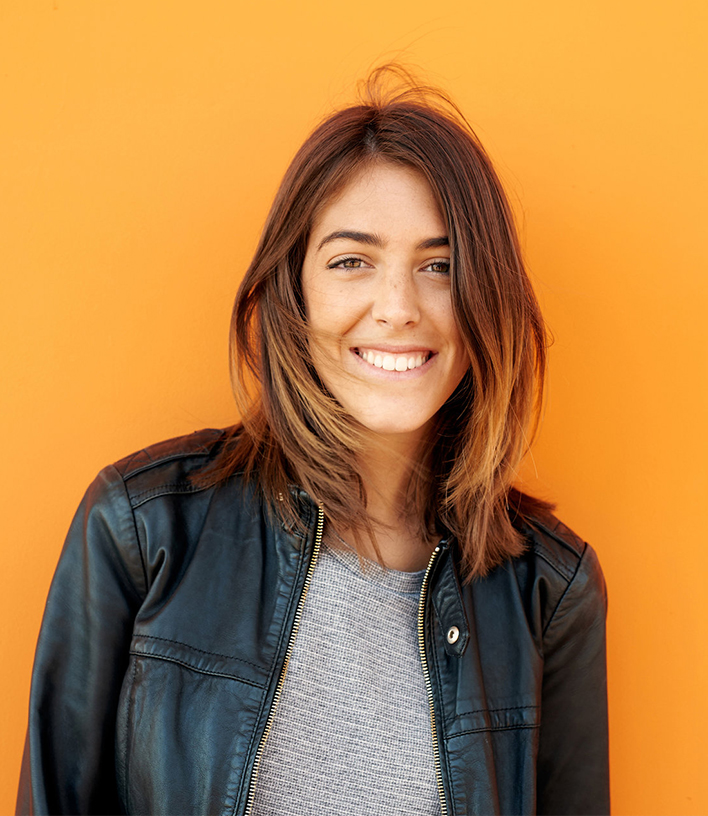
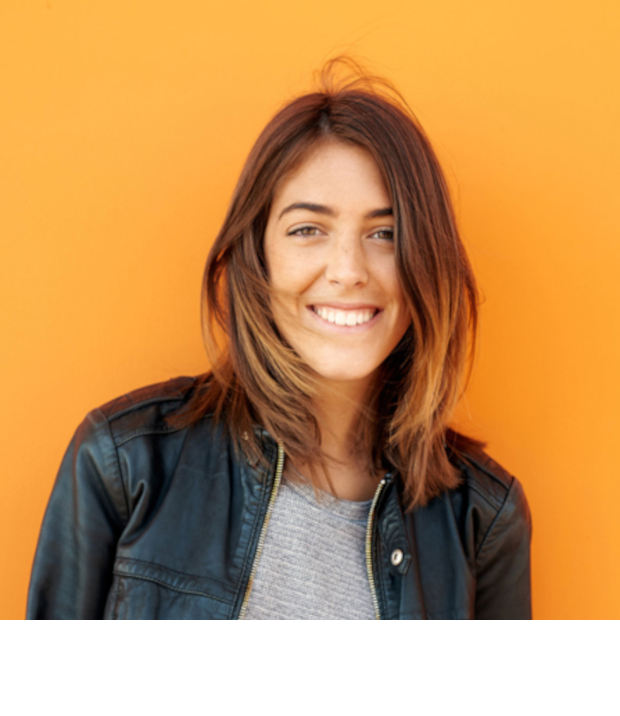
projeto finalizado ainda não responsivo

diff --git a/DEGRAW_PROJECT/css/style.css b/DEGRAW_PROJECT/css/style.css
@@ -8,6 +8,7 @@
 
 body{
     overflow-x: hidden;
+    max-width: 1900px;
 }
 
 .header-container{
@@ -92,18 +93,21 @@ body{
 
 .phrase{
     background-color: #fff;
+    height: 350px;
 }
 
-.phrase-p{
-    line-height: 50px;
+.phrase p{
     width: 630px;
-    font-size: 35px;
+    font-size: 42px;
     margin: auto;
     text-align: center;
+    padding-bottom: 50px;
+    border-bottom: 1px solid #f19588;
 }
 
 .services-container{
     background-color: #fdf0e6;
+    padding-bottom: 20px;
 }
 
 .services-container h2{
@@ -144,4 +148,114 @@ body{
     display: block;
     margin: 60px auto;
     cursor: pointer;
+}
+
+.blockquote-container{
+    background-color: #fff;
+    height: 650px;
+}
+
+.blockquote-container blockquote{
+    position: relative;
+    top: 20%;
+    left: 11%;
+    font-size: 45px;
+    width: 510px;
+    height: 500px;
+    background-color: #fdf0e6;
+    padding: 20px;
+    padding-top: 50px;
+    line-height: 60px;
+    text-align: center;
+}
+
+.blockquote-container blockquote p{
+    font-size: 25px;
+    text-align: left;
+    padding-top: 20px;
+}
+
+.img{
+    position: relative;
+    max-width: 700px;
+    display: inline-block;
+    margin-bottom: 150px;
+}
+
+.img figure{
+    position: absolute;
+    left: 650px;
+    top: -600px;
+    max-width: 900px;
+}
+
+.query{
+    background-color: #fdf0e6;
+    height: 350px;
+    text-align: center;
+}
+
+.query h4{
+    font-size: 45px;
+    font-weight: normal;
+    padding: 55px 0px;
+}
+
+.query p{
+    font-size: 27px;
+    font-style: italic;
+    padding-bottom: 30px;
+}
+
+.query .btn-query{
+    background-color: #f3a294;
+    color:#fff;
+    border: none;
+    padding: 19px 29px;
+    font-family: Cambria, Cochin, Georgia, Times, 'Times New Roman', serif;
+    font-size: 17px;
+    font-weight: bold;
+    cursor: pointer;
+    opacity: 1;
+}
+
+.query .btn-query:hover{
+    opacity: 0.9;
+}
+
+footer{
+    height: 400px;
+}
+
+footer h3{
+    font-size: 35px;
+    font-weight: normal;
+    text-align: center;
+    padding-top: 60px;
+    padding-bottom: 40px;
+}
+
+.block{
+    width: 360px;
+    height: 170px;
+    display: inline-block;
+    margin-left: 70px;
+}
+
+.block .title{
+    font-size: 27px;
+    text-align: center;
+    padding-bottom: 20px;
+}
+
+.block p{
+    font-size: 20px;
+    padding-top: 20px;
+    text-align: center;
+}
+
+.block p a{
+    color: #f08e80;
+    text-decoration: none;
+    border-bottom: 1px solid #f08e80;
 }

diff --git a/DEGRAW_PROJECT/index.html b/DEGRAW_PROJECT/index.html
@@ -24,7 +24,7 @@
             </div>
         </main>
         <section class="phrase">
-            <p class="phrase-p">
+            <p>
                 Depois de apenas uma sessão, você vai sentir que tem controle do seu orçamento, dos seus objetivos de economia e da sua vida.
             </p>
         </section>
@@ -73,13 +73,11 @@
             <p>-Claire A.</p>    
             </blockquote>
         </div> 
-        <!--
-            <div class="img-2">
+            <div class="img">
                 <figure>
                     <img src="img/image-asset.jpeg" alt="Mulher sorrindo">
                 </figure>
-            </div>
-        -->    
+            </div>   
         <section class="query">
             <h4>Vamos conversar!</h4>
             <p>A primeira consulta é gratuita.</p>
@@ -87,17 +85,18 @@
         </section>
         <footer>
             <h3>Degraw</h3>
-            <div class="location">
+            <div class="block">
                 <p class="title">Localização</p>
                 <p>Rua Exemplo 123</p>
                 <p>Nova York, NY 12345</p>
-            </div>
-            <div class="contact">
-                <p class="title">Contato</p>
+            </div>    
+            <div class="block">
+                <p class="title">Contato</p>              
                 <p>(555) 555-555</p>
-                <p>email@exemplo.com</p>
-            </div>
-            <div class="social-media">
+                <p>email@exemplo.com</p>  
+            </div>     
+            <div class="block">
+                <p class="title">Siga-nos</p>    
                 <p><a href="#">Instagram</a></p>
                 <p><a href="#">Facebook</a></p>
             </div>
